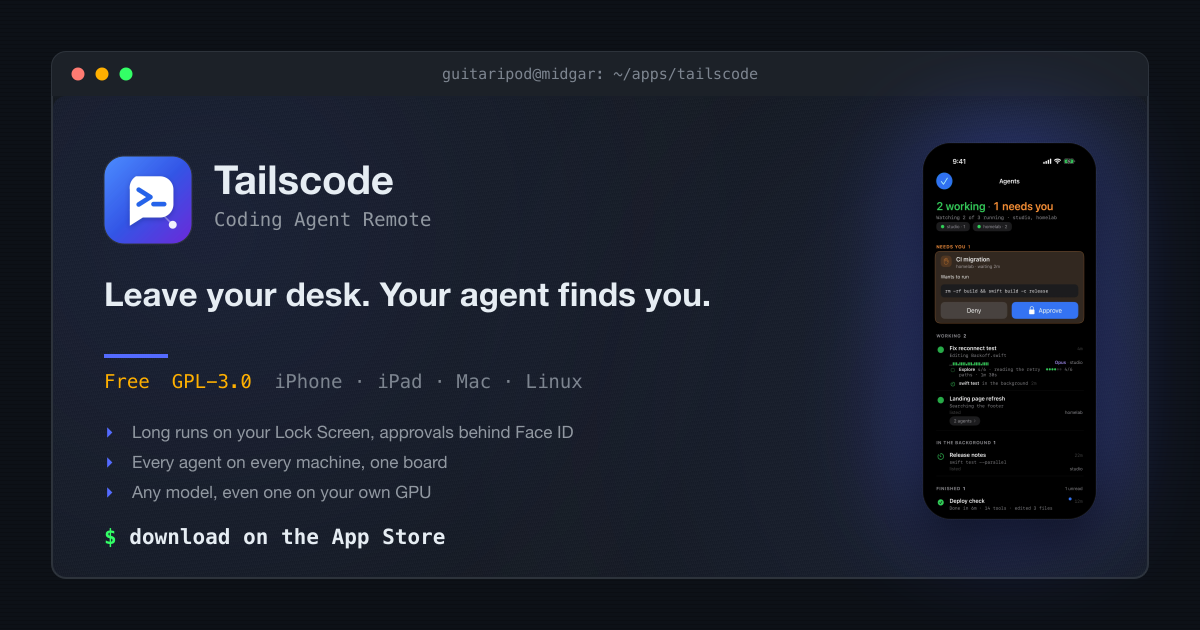
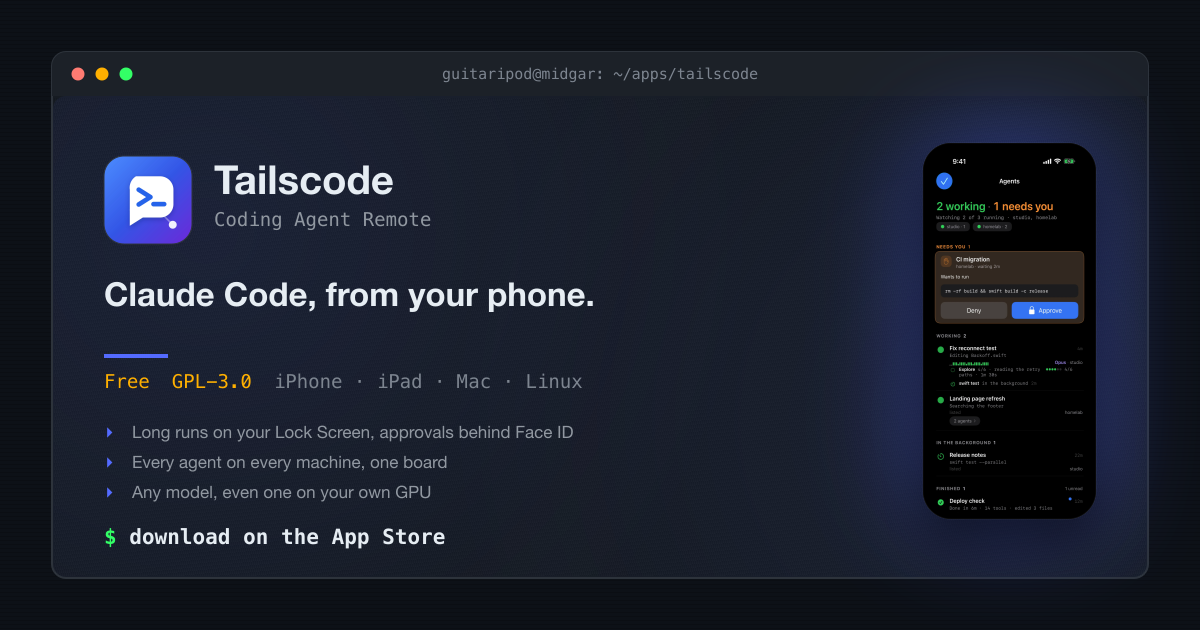
Say what Tailscode is in the words people use for it on midgarcorp.cc/tailscode: Claude Code, from your phone
A study of the category on 2026-11-14 (the store listings of the twelve apps that rank for it, 53 developer quotes from Hacker News, the vendors' own pages) found one phrase for this need, "Claude Code from my phone", and one loud complaint, SSH and tmux on a phone keyboard. The page's headline was "Leave your desk. Your agent finds you.", which names neither the agent nor the phone. It now leads with the plain sentence, names Codex beside the other agents, says no SSH session and no tmux in the lead, and carries the same words in the title, the description and the social card.

Changed region(s): [[0.0925, 0.4524, 0.5858, 0.5127]]

diff --git a/tests/unit/tailscode-landing.test.ts b/tests/unit/tailscode-landing.test.ts
@@ -88,7 +88,7 @@ describe('Tailscode landing page', () => {
   });
 
   it("leads with the store's header line and keeps the trust claim beside it", () => {
-    expect(copy.heroHeadline).toBe('Leave your desk. Your agent finds you.');
+    expect(copy.heroHeadline).toBe('Claude Code, from your phone.');
     for (const fact of ['No relay', 'No sign-in', 'No tracking', 'GPL-3.0']) {
       expect(page).toContain(fact);
     }
